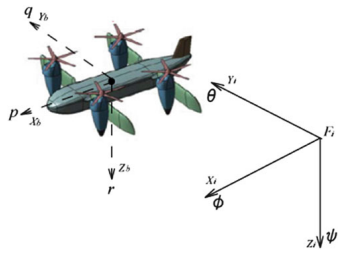
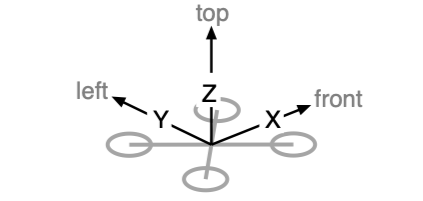
Update body-fixed coordinate system descriptions and citations in main.tex

diff --git a/latex/main.tex b/latex/main.tex
@@ -235,18 +235,18 @@ The quadcopter's orientation is described using a body-fixed coordinate system w
 
 \begin{itemize}
     \item \textbf{Roll} (\(\phi\)): rotation around the forward-pointing \(x\)-axis
-    \item \textbf{Pitch} (\(\theta\)): rotation around the rightward-pointing \(y\)-axis
-    \item \textbf{Yaw} (\(\psi\)): rotation around the downward-pointing \(z\)-axis
+    \item \textbf{Pitch} (\(\theta\)): rotation around the leftward-pointing \(y\)-axis
+    \item \textbf{Yaw} (\(\psi\)): rotation around the upward-pointing \(z\)-axis
 \end{itemize}
 
 \begin{figure}[h]
     \centering
-    \includegraphics[width=0.52\linewidth]{body_axes.png}
-    \caption{Body-fixed coordinate system and rotational axes of a quadcopter. \parencite{autonomous_robots} }
+    \includegraphics[width=0.5\linewidth]{body_axes.png}
+    \caption{Body-fixed coordinate system and rotational axes of a quadcopter. \parencite{betaflight_website} }
     \label{fig:body_axes}
 \end{figure}
 
-All motion is controlled by adjusting the rotational speeds of the four motors, which generate the necessary forces and torques. The motor configuration and control strategy are described in the following sections \parencite{autonomous_robots, quanIntroductionMulticopterDesign2017, mahonyMultirotorAerialVehicles2012}.
+All motion is controlled by adjusting the rotational speeds of the four motors, which generate the necessary forces and torques. The motor configuration and control strategy are described in the following sections \parencite{quanIntroductionMulticopterDesign2017, mahonyMultirotorAerialVehicles2012, autonomous_robots}.
 
 \newpage
 
